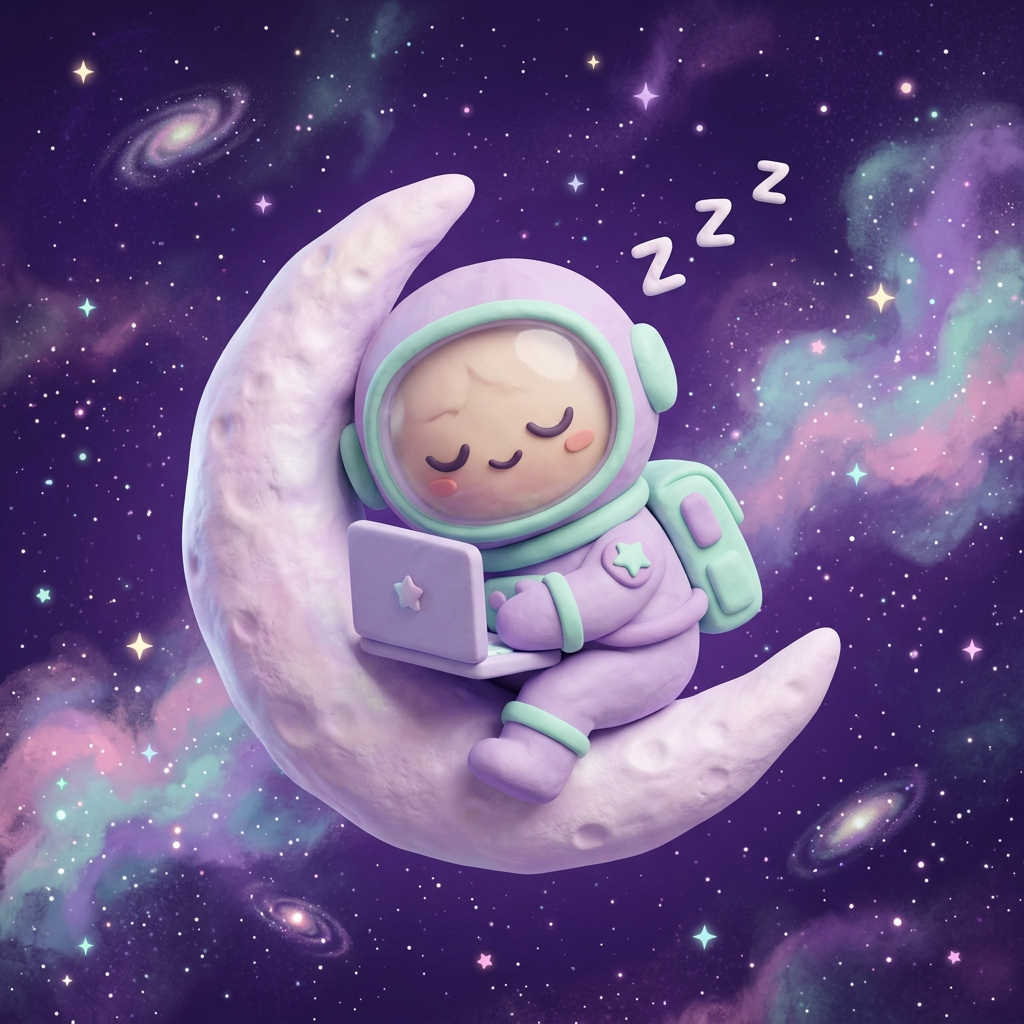
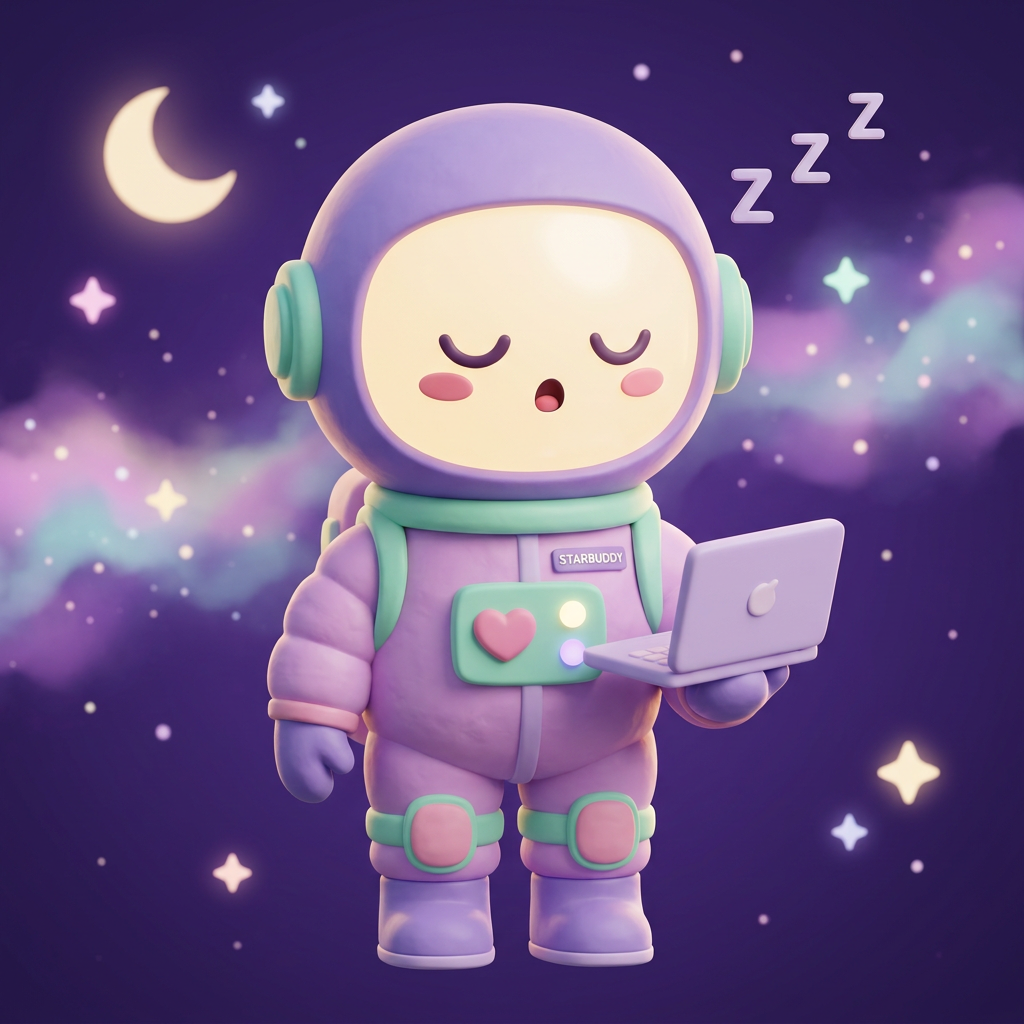
feat: update mascot gallery to reflect new emotions and images
V0-Chat-Id: jBWVrYqROWZ

diff --git a/components/showcase/mascot-gallery.tsx b/components/showcase/mascot-gallery.tsx
@@ -5,14 +5,14 @@ import { useRef, useState, type MouseEvent } from 'react'
 import { Floaters, Particles, localPoint, replay, useFloaters, useParticles } from './use-effects'
 
 const MASCOTS = [
-  { src: '/images/astro/coding.png', name: 'Code Mode', caption: 'Gõ phím giữa dải ngân hà', tint: 'bg-pastel-lavender' },
-  { src: '/images/astro/waving.png', name: 'Hello World', caption: 'Chào bạn mới đến trạm', tint: 'bg-pastel-pink' },
-  { src: '/images/astro/planet.png', name: 'Remote Work', caption: 'Văn phòng trên hành tinh nhỏ', tint: 'bg-pastel-mint' },
-  { src: '/images/astro/rocket.png', name: 'Deploy!', caption: 'Phóng bản build lên quỹ đạo', tint: 'bg-pastel-sky' },
-  { src: '/images/astro/sleepy.png', name: 'Sleep Mode', caption: 'Ngủ trưa trên mặt trăng', tint: 'bg-pastel-lavender' },
-  { src: '/images/astro/debug.png', name: 'Bug Hunter', caption: 'Tìm con bug dễ thương', tint: 'bg-pastel-pink' },
-  { src: '/images/astro/party.png', name: 'All Green', caption: 'Test pass hết rồi nè', tint: 'bg-pastel-mint' },
-  { src: '/images/astro/coffee.png', name: 'Coffee Break', caption: 'Cà phê hơi nước hình sao', tint: 'bg-pastel-sky' },
+  { src: '/images/astro/happy.png', name: 'Vui vẻ', caption: 'Code chạy ngon lành', tint: 'bg-pastel-mint' },
+  { src: '/images/astro/love.png', name: 'Yêu thích', caption: 'Mê cái UI này quá', tint: 'bg-pastel-pink' },
+  { src: '/images/astro/excited.png', name: 'Phấn khích', caption: 'Deploy thành công rồi!', tint: 'bg-pastel-lavender' },
+  { src: '/images/astro/surprised.png', name: 'Ngạc nhiên', caption: 'Ơ, sao nó chạy được?', tint: 'bg-pastel-sky' },
+  { src: '/images/astro/thinking.png', name: 'Suy nghĩ', caption: 'Đặt tên biến gì đây', tint: 'bg-pastel-lavender' },
+  { src: '/images/astro/sleepy.png', name: 'Buồn ngủ', caption: 'Code tới 3 giờ sáng', tint: 'bg-pastel-sky' },
+  { src: '/images/astro/sad.png', name: 'Buồn', caption: 'Build lại fail rồi', tint: 'bg-pastel-pink' },
+  { src: '/images/astro/angry.png', name: 'Dỗi', caption: 'Con bug này nữa hả', tint: 'bg-pastel-mint' },
 ]
 
 const BOOPS = ['boop!', 'hihi', 'beep', '+1', 'yay', 'zoom']
@@ -73,10 +73,10 @@ export function MascotGallery() {
       <div className="flex flex-col gap-2">
         <span className="font-mono text-xs uppercase tracking-widest text-pastel-mint">03 / mascot</span>
         <h2 id="gallery-title" className="text-balance text-3xl font-bold md:text-4xl">
-          Gia đình <span className="text-galaxy">Starbuddy</span>
+          Cảm xúc của <span className="text-galaxy">Starbuddy</span>
         </h2>
         <p className="max-w-xl text-pretty text-muted-foreground">
-          8 tư thế phi hành gia cầm laptop. Bấm vào từng bé để nghe tiếng boop và xem mưa sao.
+          8 biểu cảm của cùng một bé phi hành gia cầm laptop. Bấm vào từng bé để nghe tiếng boop và xem mưa sao.
         </p>
       </div>
       <ul className="grid grid-cols-1 gap-5 sm:grid-cols-2 lg:grid-cols-4">
